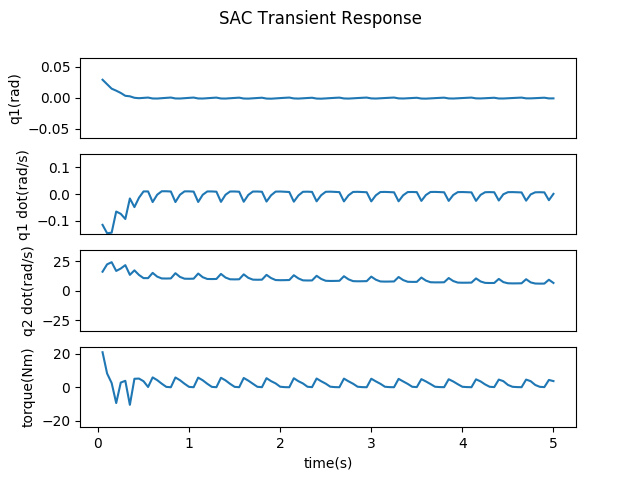
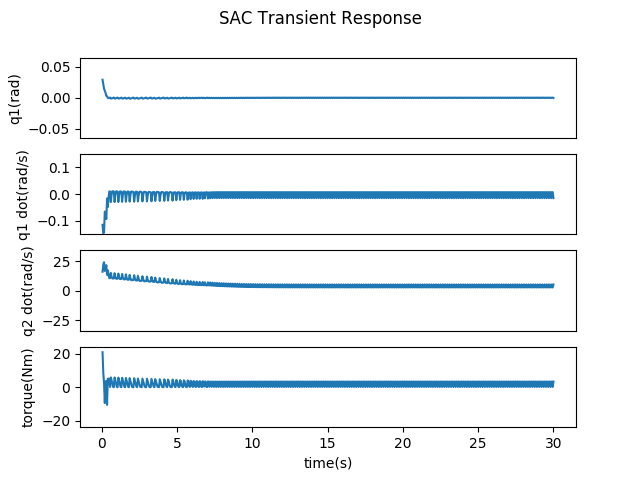
0703 SAC 16&17, TD3 24&25, PPO 9&10, tune timestep 0.05, 0.1

diff --git a/plot_graph.py b/plot_graph.py
@@ -133,7 +133,7 @@ def save_graph():
         ############eval plot############
         for i, run in enumerate(eval_runs):
             # plot the lines
-            run.plot(kind='line', x='timestep', y='eval_reward',ax=ax_eval,color=colors[i % len(colors)],  linewidth=2.5, alpha=0.5)
+            run.plot(kind='line', x='timestep', y='eval_reward',ax=ax_eval,color=colors[i % len(colors)],  linewidth=1.5, alpha=0.2)
 
         # keep alternate elements (reward_smooth_i) in the legend
         handles, labels = ax_eval.get_legend_handles_labels()

diff --git a/test.py b/test.py
@@ -132,8 +132,12 @@ def test(env, agent, args):
     state = env.reset(mode="test")
     episode_reward = 0
     rep = 0
-    time_duration = 5  # seconds
-    rep_max = time_duration / env.dt
+    '''if args.env_dt == 0.05:
+        time_duration = 50  # seconds
+    else:
+        time_duration = 5  # seconds
+    rep_max = time_duration / env.dt'''
+    rep_max = 1000
 
     while True:
         rep += 1

diff --git a/train.py b/train.py
@@ -101,7 +101,6 @@ def train():
             log_f_eval.write('{},{}\n'.format(frame, eval_reward))
             log_f_eval.flush()
             if not args.to_last_frame:
-                print("inside")
                 if eval_reward > -10:
                     save_count += 1
                     if save_count >= 10:
